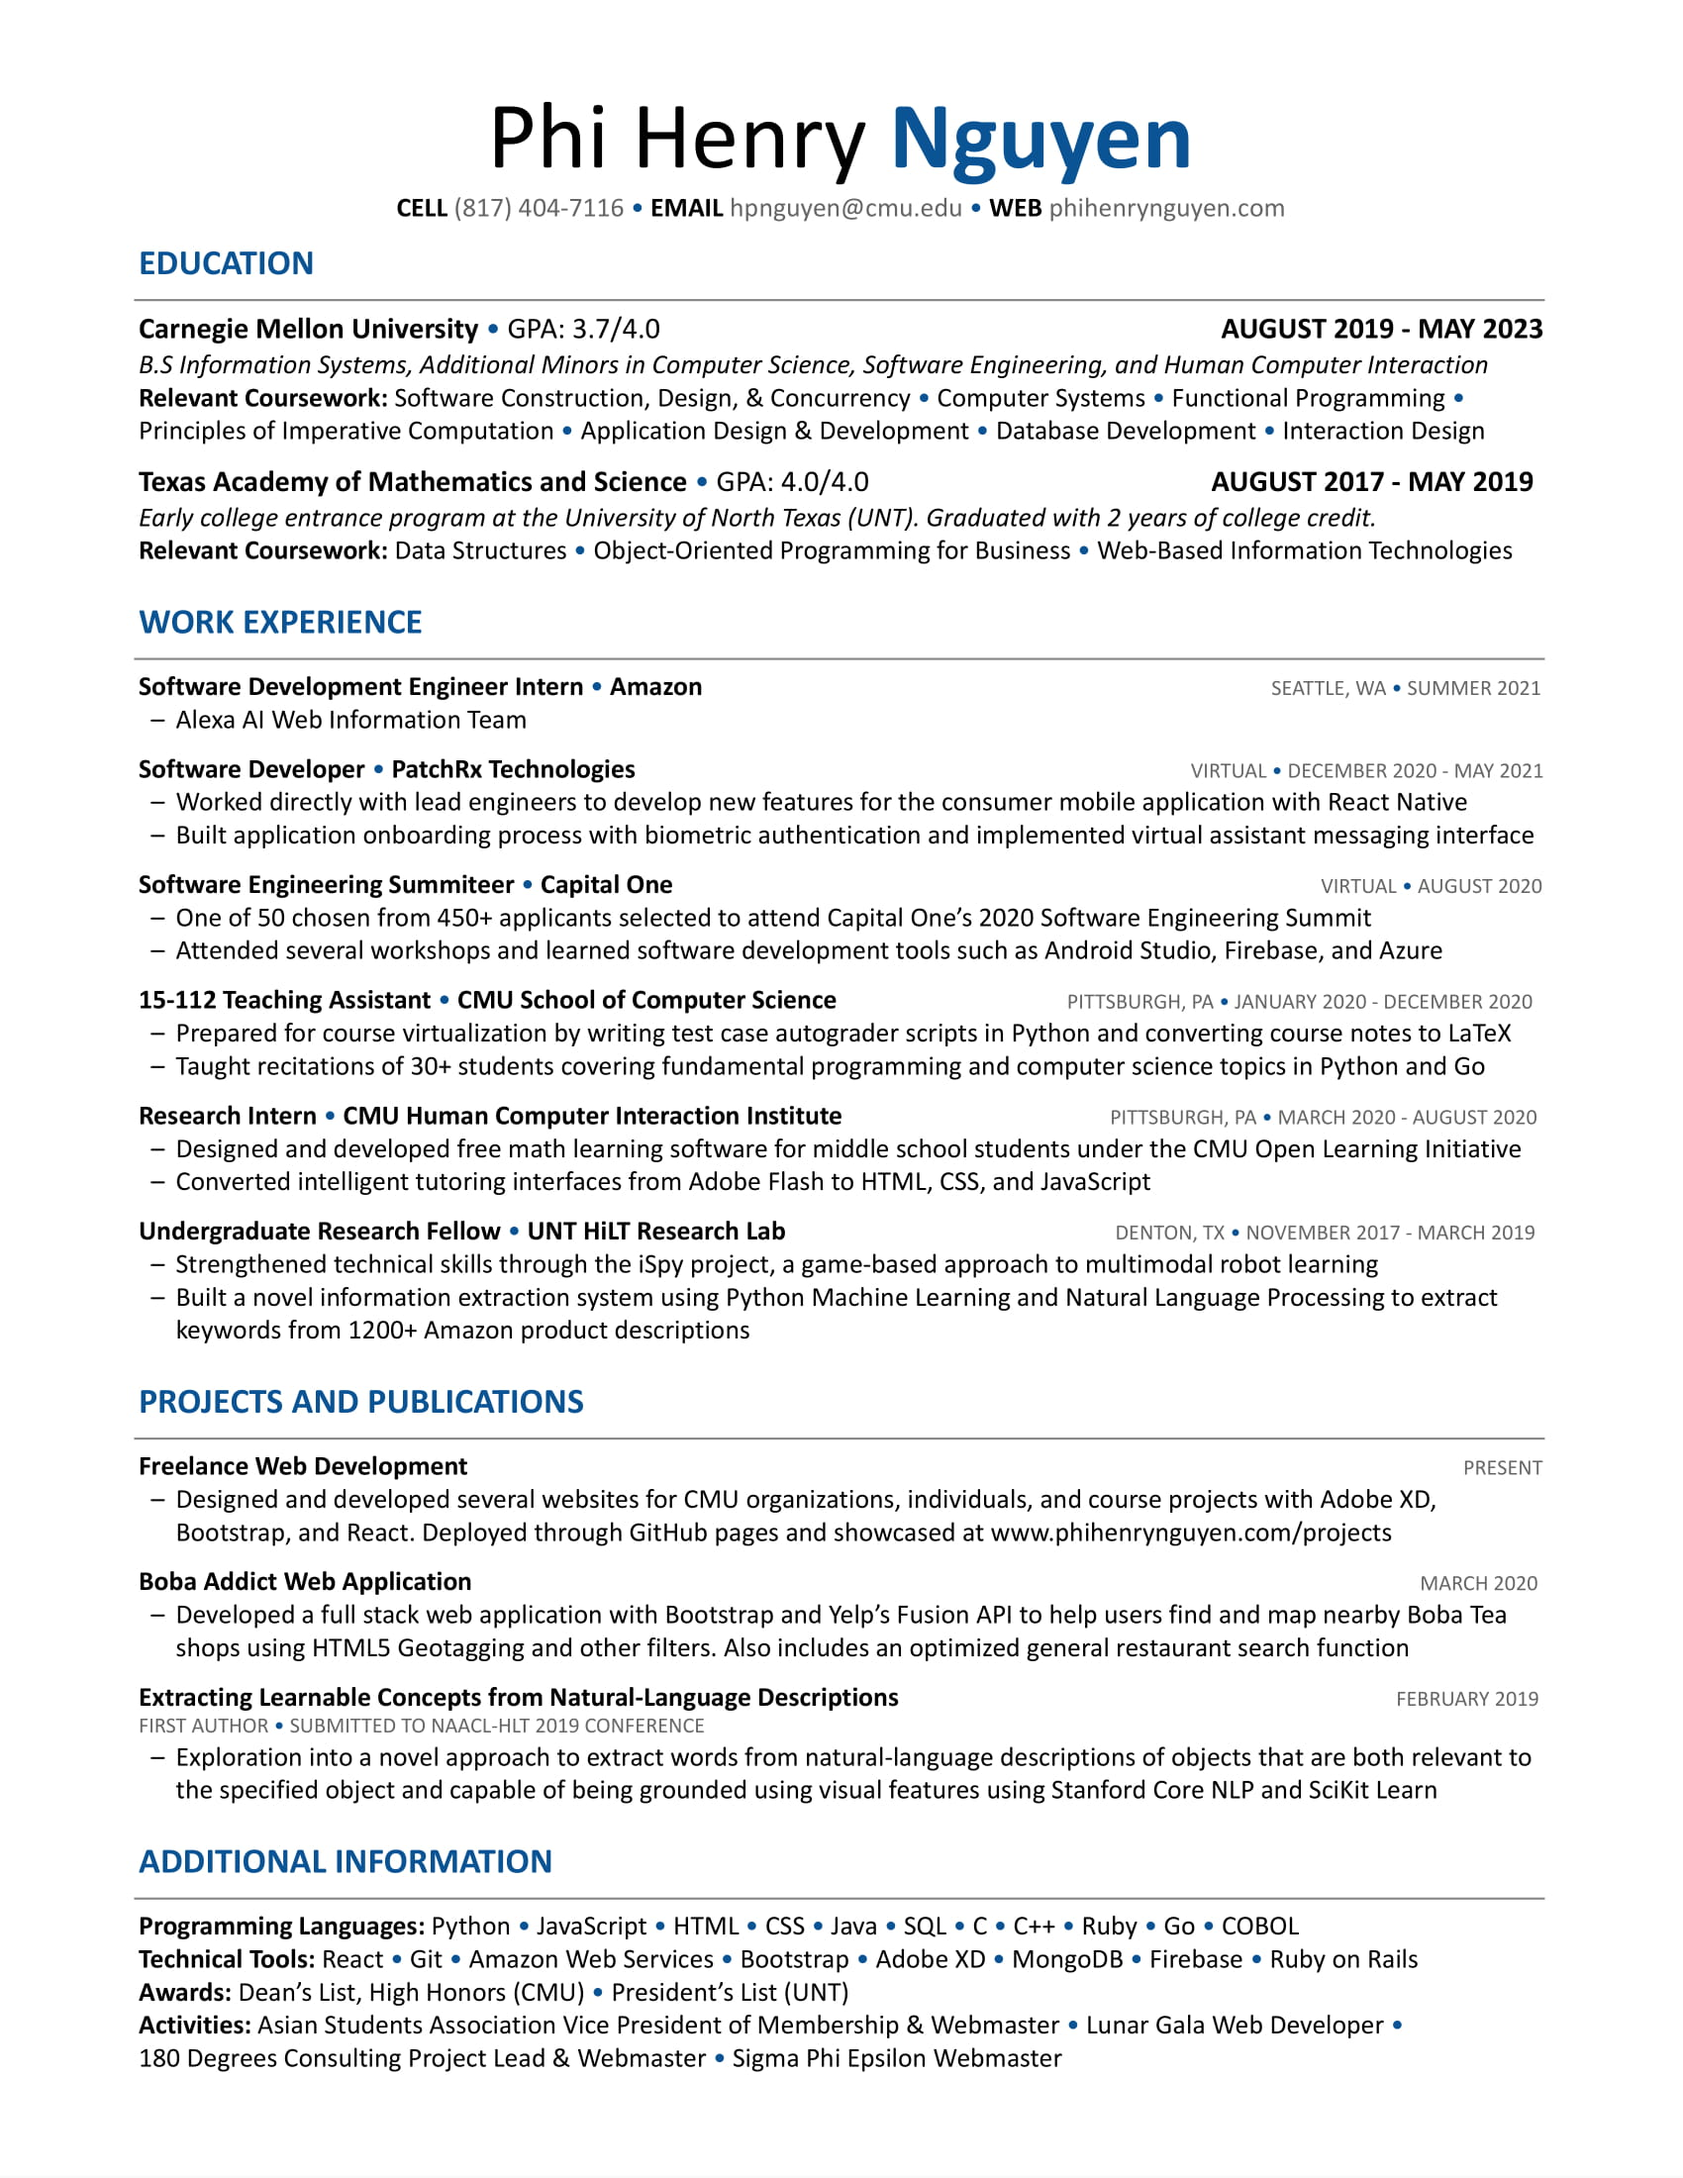
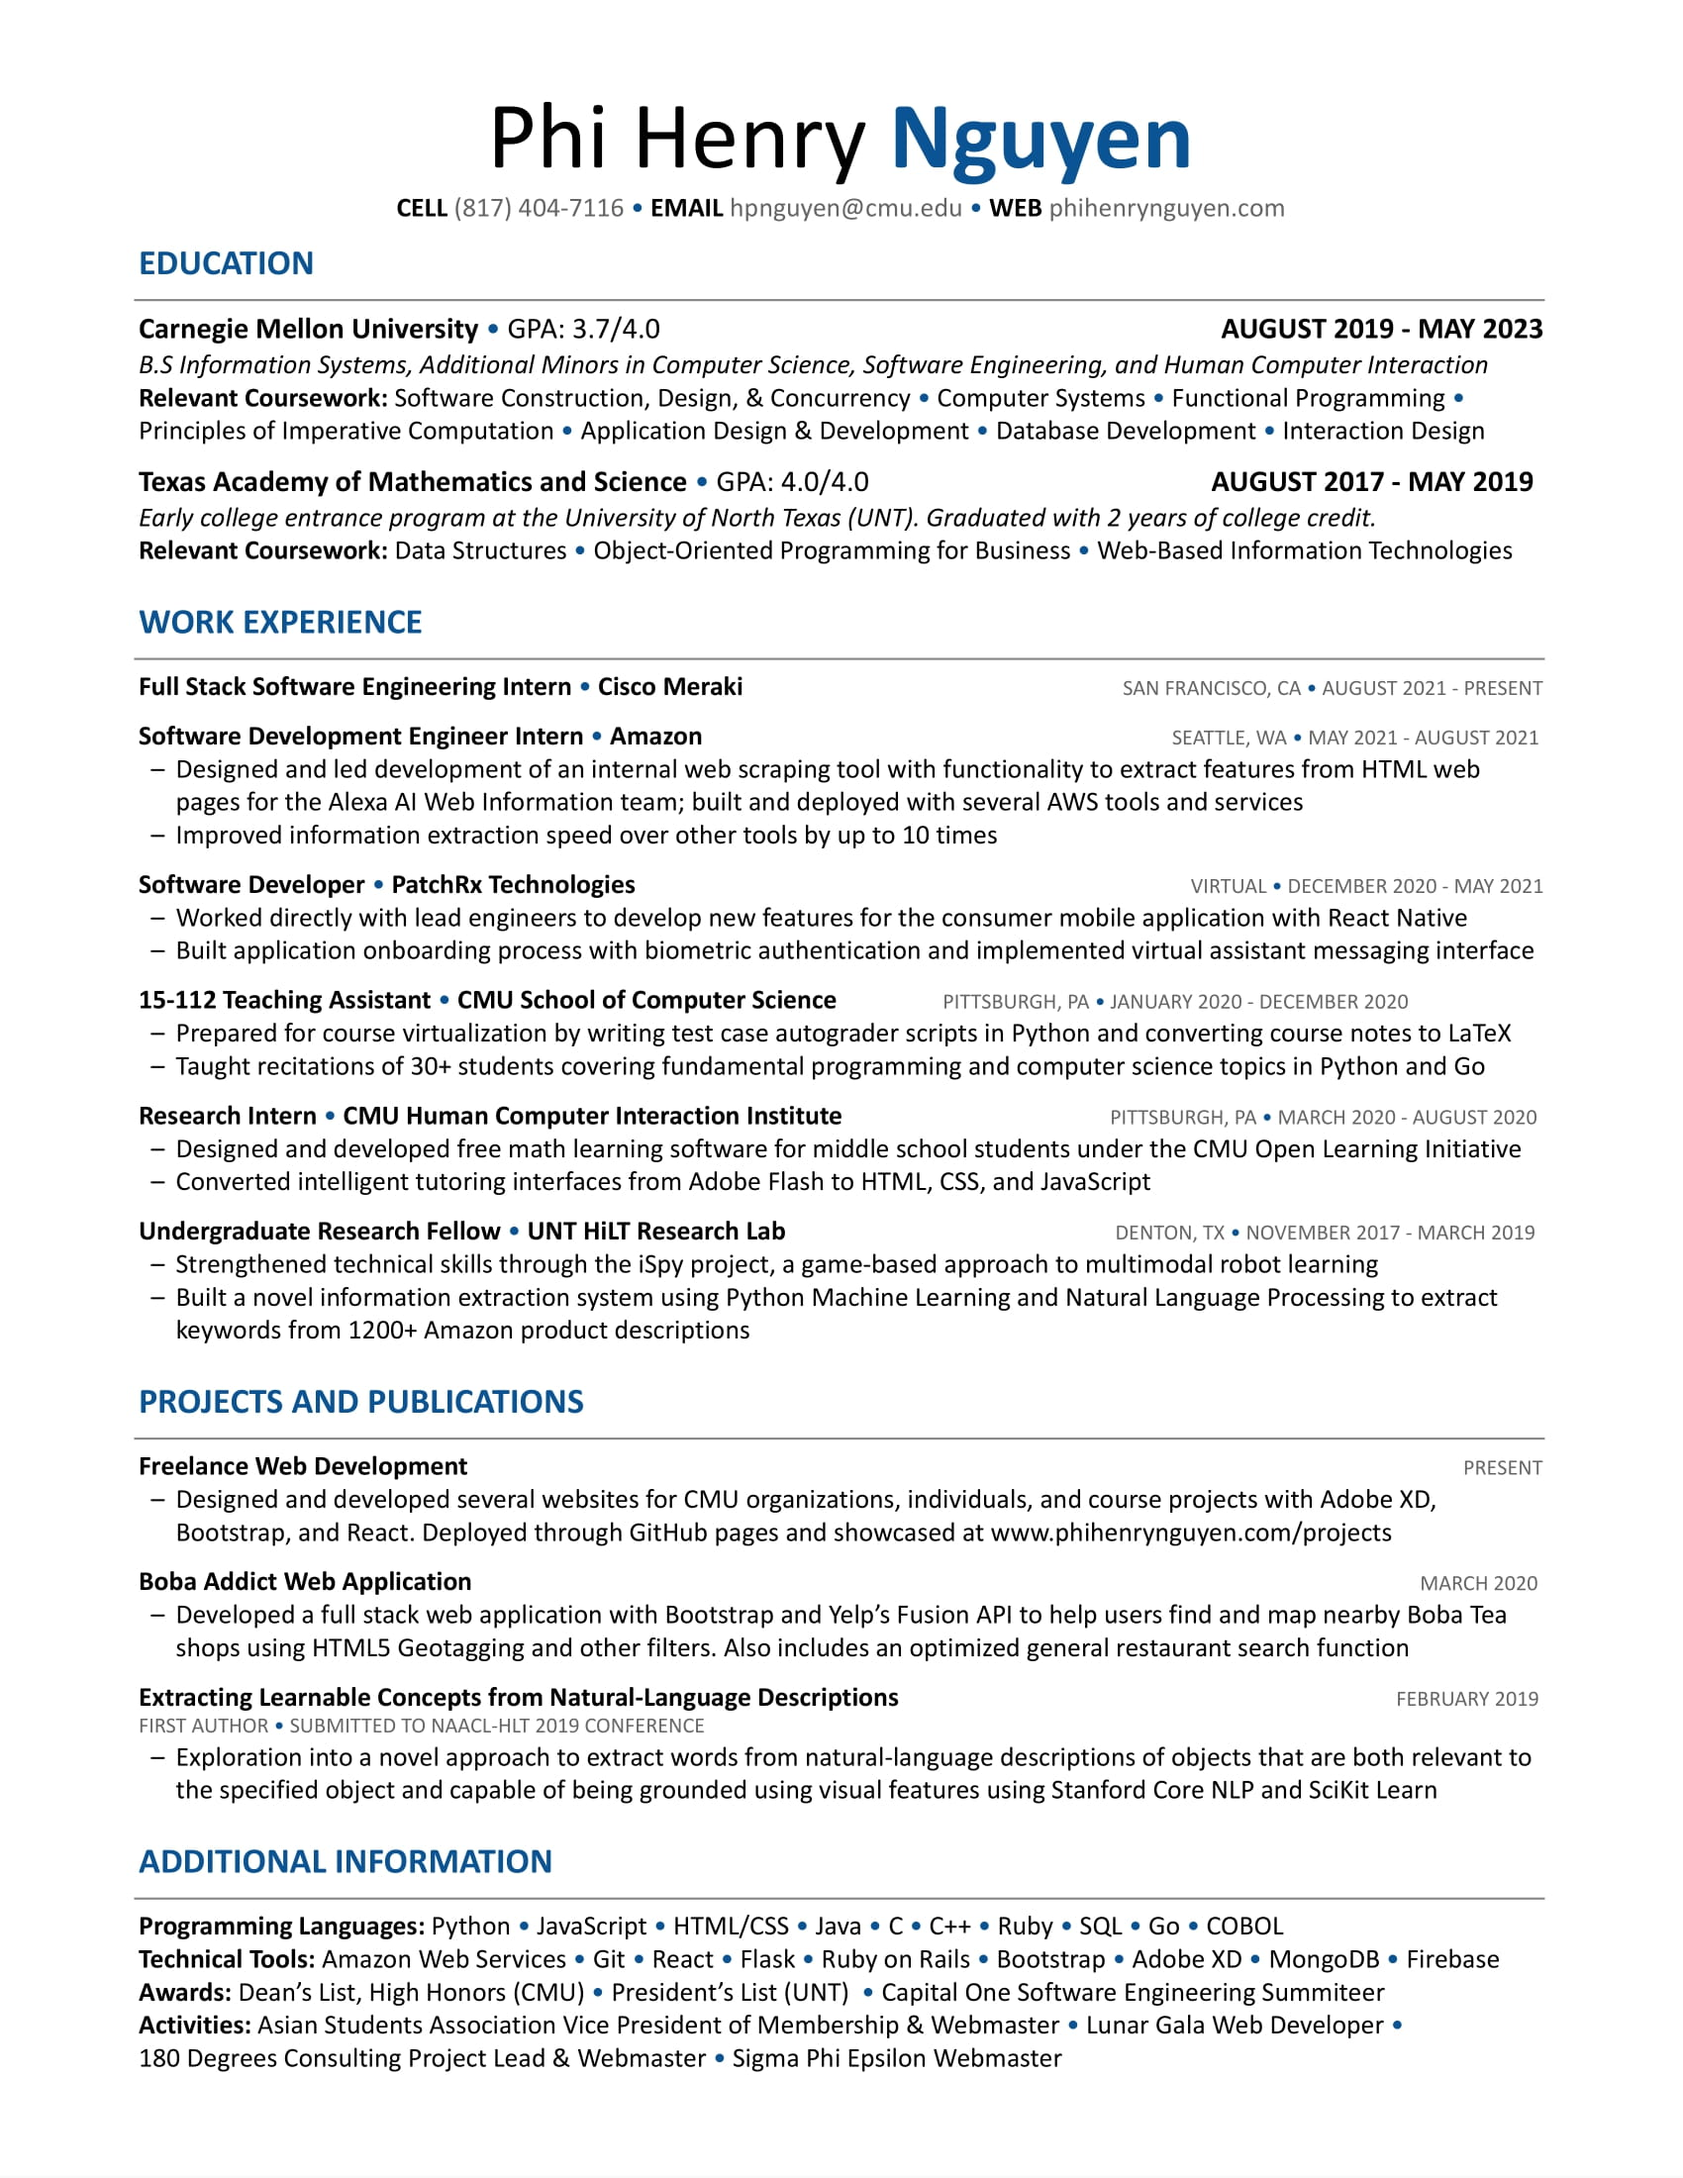
updated resume and added Cisco

Changed region(s): [[0.0935, 0.3091, 0.9041, 0.4636], [0.4365, 0.8655, 0.8729, 0.9273], [0.1871, 0.8964, 0.4053, 0.9273]]

diff --git a/about.html b/about.html
@@ -93,10 +93,11 @@
 		</div>
 		<div data-aos="fade-up">
 			<p class="text-justify mx-md-5">
-				Hi there! I'm <a href="https://en.wikipedia.org/wiki/Phi" target="_blank" rel="noopener">Phi</a> Henry Nguyen, a rising junior majoring in Information Systems at Carnegie
-				Mellon University with minors in Computer Science, Software Engineering, and Human Computer Interaction. This summer, I'm working as a software development engineer intern at 
-				<a href="https://www.amazon.com" target="_blank" rel="noopener">Amazon</a> working on the Alexa AI Web Information team. I also have previous experience as a software developer at <a href="https://www.getpatchrx.com" target="_blank" rel="noopener">PatchRx</a>
-				and as a teaching assisstant for 15-112, a fast-paced introductory CS class at CMU taught in Python.
+				Hi there! I'm <a href="https://en.wikipedia.org/wiki/Phi" target="_blank" rel="noopener">Phi</a> Henry Nguyen, a current junior majoring in Information Systems at Carnegie
+				Mellon University with minors in Computer Science, Software Engineering, and Human Computer Interaction. This fall, I'm working as a full stack software engineering intern 
+				at <a href="https://meraki.cisco.com/" target="_blank" rel="noopener">Cisco Meraki</a> and over this past summer, I worked as a software development engineer intern at 
+				<a href="https://www.amazon.com" target="_blank" rel="noopener">Amazon</a> on the Alexa AI Web Information team. I also have previous experience as a software developer at 
+				<a href="https://www.getpatchrx.com" target="_blank" rel="noopener">PatchRx</a> and as a teaching assisstant for 15-112, a fast-paced introductory CS class at CMU taught in Python.
 			</p>
 			<p class="text-justify mx-md-5">
 				I'm also involved on campus as the Vice President of Membership and webmaster for

diff --git a/index.html b/index.html
@@ -134,7 +134,7 @@
 			<h1>Phi Henry Nguyen</h1>
 			<p>
 				<span href="#" class="typewrite typeBlink" data-period="2500"
-					data-type='[ "Student at Carnegie Mellon University", "SDE Intern at Amazon", "Robinhood Enthusiast", "Avid Thrift Shopper", "Amateur Home Cook", "88rising Devotee", "Honored that you read all of these :)"]'>
+					data-type='[ "Student at Carnegie Mellon University", "SWE Intern at Cisco Meraki", "Previous SDE Intern at Amazon", "Robinhood Enthusiast", "Avid Thrift Shopper", "Amateur Home Cook", "88rising Devotee", "Honored that you read all of these :)"]'>
 				</span>
 			</p>
 			<div class="container" style="font-size: 1.2rem;">
